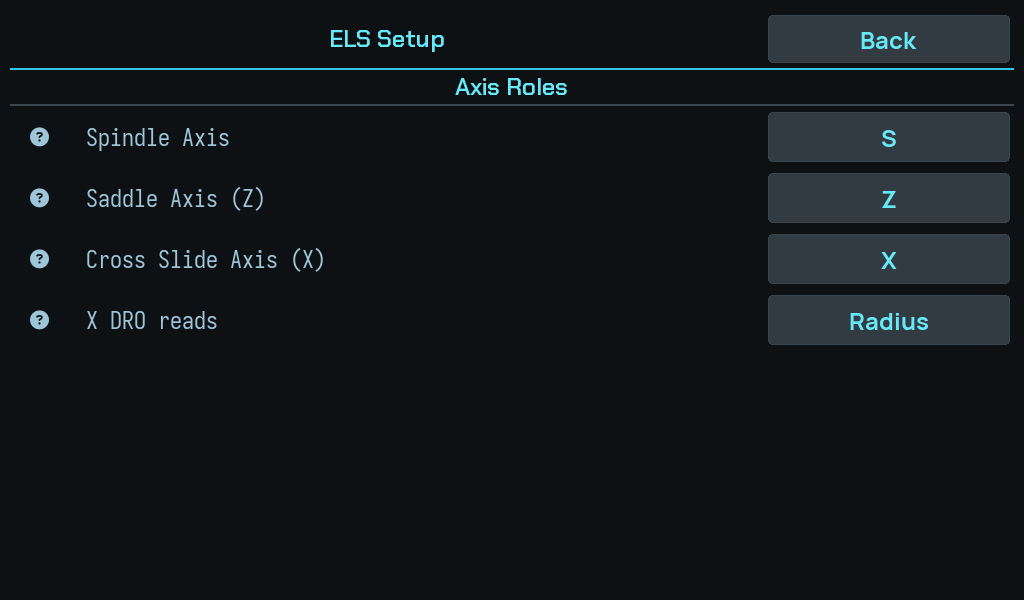
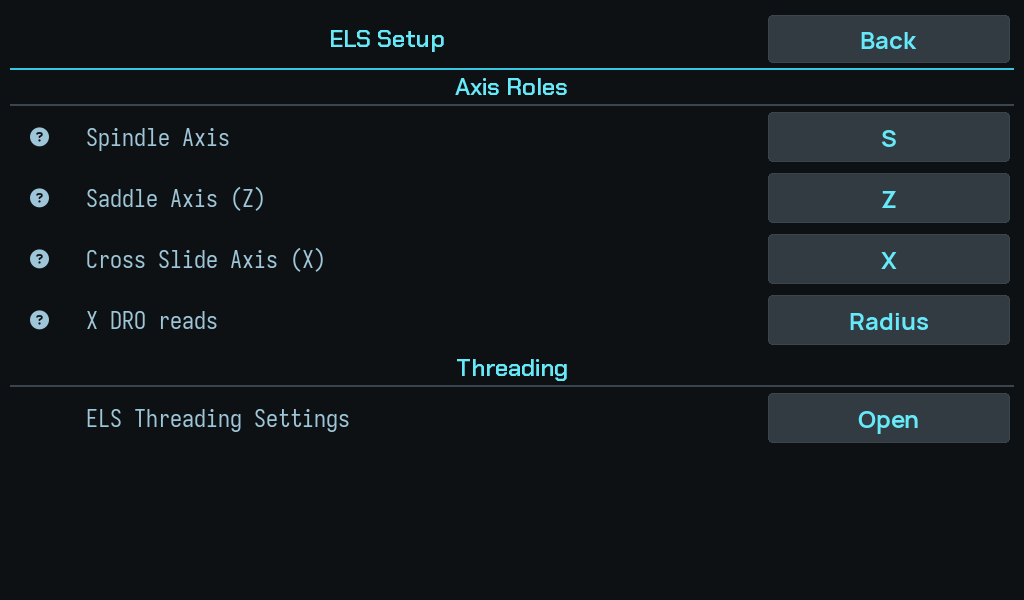
feat(ui): open ELS settings from Setup as well
The ELS Threading Settings popup opened only from the advanced ELS bar's
settings button; every other settings menu is reachable from Setup. The
ELS Setup screen (Setup -> ELS) now has a Threading row, "ELS Threading
Settings", that opens it. The advanced bar's button is unchanged.

There is still one source of truth. The new entry reaches the home
screen's one ElsAdvancedBar through the screen manager
(HomePage.els_advanced_bar, the ELS layout's bar, built whatever mode is
showing) and calls that bar's own open_settings, so the popup is built on
the same bar, app.els and app.servo as from the home screen, and every
control behaves identically. No second bar or copy of its settings is
made; with no home screen to reach, nothing opens. The row is hidden for a
use case without ELS mode, by the same rule as Setup's ELS button.

test_els_settings_entry_points builds the real popup from both entry
points (kv rules patched out, open recorded): both get the home bar, show
the same values, and a change made from either is seen from the other.

The guide pages that say where the popup opens name the second way, and
the ELS setup screenshot is regenerated.

Changed region(s): [[0.0312, 0.6, 1.0, 0.75], [0.0625, 0.69, 0.3438, 0.72]]

diff --git a/ui/tests/components/test_els_settings_entry_points.py b/ui/tests/components/test_els_settings_entry_points.py
@@ -1,0 +1,137 @@
+"""The ELS settings popup opens from two places: the advanced ELS bar's
+settings button and Setup -> ELS -> ELS Setup. Both must open the SAME popup on
+the SAME live state -- the home screen's one advanced bar, the app's one ELS
+dispatcher and servo -- so a value shown or changed from one is the value seen
+from the other. A second ElsAdvancedBar, or a copy of its settings, would be a
+second source of truth.
+
+Built headlessly like test_els_advbar.py: the popup's and the screen's kv rules
+are patched out (the mock GL backend cannot build their graphics), and
+Popup.open is recorded instead of run. Every popup method and property under
+test is the real one.
+"""
+from pathlib import Path
+from types import SimpleNamespace
+from unittest.mock import patch
+
+import pytest
+
+
+@pytest.fixture
+def opened(monkeypatch):
+    """Patch the popup so it can be built headlessly; record each one opened."""
+    from reflex.components.home.els_settings_popup import ElsSettingsPopup
+    seen = []
+    monkeypatch.setattr(ElsSettingsPopup, "apply_class_lang_rules",
+                        lambda self, *a, **kw: None)
+    monkeypatch.setattr(ElsSettingsPopup, "open",
+                        lambda self, *a, **kw: seen.append(self))
+    return seen
+
+
+@pytest.fixture
+def live_app(running_app):
+    """The state both entry points must share: a stateful ELS dispatcher
+    stand-in (the popup writes the take-up and limits back to it)."""
+    running_app.els = SimpleNamespace(
+        els_backlash_steps=403, els_cal_ceiling_steps=1008,
+        els_cal_motion_thresh_counts=2, els_overshoot_margin_counts=1,
+        els_overshoot_correction=False, els_ratio_check=False)
+    return running_app
+
+
+@pytest.fixture
+def home_and_setup(advbar_factory, live_app):
+    """The home screen's advanced bar, and an ELS Setup screen whose app can
+    reach it through the screen manager the way the running app does."""
+    from reflex.components.screens.els_setup_screen import ElsSetupScreen
+    from reflex.components.screens.home_screen import HomePage
+
+    bar = advbar_factory(els_bar=None)
+    home = SimpleNamespace(mode_layouts={2: SimpleNamespace(els_adv_bar=bar)})
+    home.els_advanced_bar = lambda: HomePage.els_advanced_bar(home)
+    live_app.manager = SimpleNamespace(
+        get_screen=lambda name: {"home": home}[name])
+    with patch.object(ElsSetupScreen, "apply_class_lang_rules"):
+        screen = ElsSetupScreen(name="els_setup")
+    return bar, screen
+
+
+def _values(popup):
+    return (popup.backlash_mm, popup.cal_ceiling_mm,
+            popup.cal_motion_thresh_counts, popup.overshoot_margin_counts,
+            popup.get_thread_types(), popup.has_gearbox, popup.gear_names)
+
+
+def test_both_entry_points_open_the_popup_on_the_one_advanced_bar(
+        home_and_setup, opened):
+    bar, screen = home_and_setup
+    bar.open_settings()
+    screen.open_els_settings()
+    assert len(opened) == 2
+    from_bar, from_setup = opened
+    assert from_bar.bar is bar
+    assert from_setup.bar is bar
+    assert _values(from_setup) == _values(from_bar)
+
+
+def test_a_change_from_setup_is_seen_from_the_advanced_bar(home_and_setup, opened):
+    bar, screen = home_and_setup
+    screen.open_els_settings()
+    from_setup = opened[-1]
+    from_setup.backlash_mm = 1.0                    # the NumberItem's on_value
+    from_setup.overshoot_margin_counts = 3
+    from_setup.on_thread_type_selected(from_setup.get_thread_types()[-1])
+    from_setup.bar.inner_thread = not from_setup.bar.inner_thread
+
+    bar.open_settings()
+    from_bar = opened[-1]
+    assert from_bar.backlash_mm == pytest.approx(1.0, abs=127 / 64000)
+    assert from_bar.overshoot_margin_counts == 3
+    assert from_bar.bar.thread_profile_type == from_setup.get_thread_types()[-1]
+    assert from_bar.bar.inner_thread == from_setup.bar.inner_thread
+
+
+def test_a_change_from_the_advanced_bar_is_seen_from_setup(home_and_setup, opened):
+    bar, screen = home_and_setup
+    bar.open_settings()
+    opened[-1].cal_ceiling_mm = 2.0
+    opened[-1].cal_motion_thresh_counts = 5
+
+    screen.open_els_settings()
+    from_setup = opened[-1]
+    assert from_setup.cal_ceiling_mm == pytest.approx(2.0, abs=127 / 64000)
+    assert from_setup.cal_motion_thresh_counts == 5
+
+
+def test_with_no_home_screen_setup_opens_nothing(live_app, opened):
+    """Never a popup on a stand-in bar: without the home screen's bar there is
+    no shared state to edit."""
+    from reflex.components.screens.els_setup_screen import ElsSetupScreen
+    live_app.manager = SimpleNamespace(get_screen=lambda name: None)
+    with patch.object(ElsSetupScreen, "apply_class_lang_rules"):
+        screen = ElsSetupScreen(name="els_setup")
+    screen.open_els_settings()
+    assert opened == []
+
+
+def test_the_setup_entry_is_hidden_without_els_mode():
+    """Same rule as the Setup screen's ELS button. The screen is never built
+    here, so pin the kv: the row opens the popup, reads as the popup's own
+    title, and collapses for a use case without ELS."""
+    import reflex.components.screens.els_setup_screen as mod
+    from reflex.components.home import els_settings_popup as popup_mod
+
+    kv = (Path(mod.__file__).parent / "els_setup_screen.kv").read_text(encoding="utf-8")
+    block = kv[kv.index("on_release: root.open_els_settings()") - 600:]
+    block = block[block.index("ButtonItem:"):]
+    block = block[:block.index("\n\n")] if "\n\n" in block else block
+    gate = "MODE_ELS in USE_CASE_MODES.get(app.use_case, [])"
+    assert f"opacity: 1 if {gate} else 0" in block
+    assert f"height: 60 if {gate} else 0" in block
+    assert "disabled: MODE_ELS not in USE_CASE_MODES.get(app.use_case, [])" in block
+
+    popup_kv = (Path(popup_mod.__file__).parent / "els_settings_popup.kv").read_text(
+        encoding="utf-8")
+    title = popup_kv.split('title: "', 1)[1].split('"', 1)[0]
+    assert f'name: "{title}"' in block

diff --git a/ui/reflex/components/screens/els_setup_screen.py b/ui/reflex/components/screens/els_setup_screen.py
@@ -1,6 +1,6 @@
 from kivy.logger import Logger
 from kivy.properties import BooleanProperty, ObjectProperty, StringProperty
-from kivy.uix.screenmanager import Screen
+from kivy.uix.screenmanager import Screen, ScreenManagerException
 
 from reflex.utils.kv_loader import load_kv
 
@@ -39,6 +39,32 @@ class ElsSetupScreen(Screen):
         from reflex.app import MainApp
         self.app: MainApp = MainApp.get_running_app()
         super().__init__(**kv)
+
+    def open_els_settings(self):
+        """Open the ELS settings popup from Setup: the same popup the advanced
+        ELS bar's settings button opens, on the same bar.
+
+        The popup's bar is the home screen's one ElsAdvancedBar, reached
+        through the screen manager, and the popup is opened by that bar's own
+        open_settings, so every control behaves as it does from the home
+        screen and edits the one live state. Building a bar here instead would
+        be a second copy of its persisted settings. With no home screen to
+        reach (never the case in the running app) nothing opens.
+        """
+        bar = self._els_advanced_bar()
+        if bar is None:
+            log.warning("ELS settings: no home screen advanced bar to open them on")
+            return
+        bar.open_settings()
+
+    def _els_advanced_bar(self):
+        manager = getattr(self.app, "manager", None)
+        try:
+            home = manager.get_screen("home") if manager is not None else None
+        except ScreenManagerException:
+            return None
+        getter = getattr(home, "els_advanced_bar", None)
+        return getter() if callable(getter) else None
 
     def on_pre_enter(self, *args):
         axis_names = [ax.axis_name for ax in self.app.axes]

diff --git a/ui/reflex/components/screens/home_screen.py b/ui/reflex/components/screens/home_screen.py
@@ -57,6 +57,13 @@ class HomePage(Screen):
         self.app.bind(axes=self._on_axes_changed)
         self.change_mode(self, self.next_mode)
 
+    def els_advanced_bar(self):
+        """The one ElsAdvancedBar: the ELS layout's, built with the screen
+        whatever mode is showing. Setup's ELS settings entry opens the popup
+        on it (els_setup_screen.py), so both entry points edit one state."""
+        from reflex.app import MODE_ELS   # deferred: reflex.app imports screens
+        return self.mode_layouts[MODE_ELS].els_adv_bar
+
     def _on_axes_changed(self, instance, value):
         """Rebuild axis bars in all mode layouts when the axes list changes."""
         for layout in self.mode_layouts.values():

diff --git a/docs/guide/widening-a-groove.md b/docs/guide/widening-a-groove.md
@@ -8,8 +8,9 @@ groove a fraction further along and takes the side off it. Repeat until the
 groove is as wide as you want. The workpiece is never re-indexed and the thread
 datum is never re-established.
 
-Open it from the **gear** on the advanced ELS bar — it is the second of the two
-rows at the bottom of the ELS settings, beside
+Open it from the **gear** on the advanced ELS bar, or from **Setup → ELS → ELS
+Threading Settings** — it is the second of the two rows at the bottom of the
+ELS settings, beside
 [Pick up an existing thread](picking-up-a-thread.md#where-to-find-it).
 
 ![The offset modal, nothing entered](../screenshots/flow/wt_offset_entry_zero.png)

diff --git a/docs/guide/stop-overshoot-correction.md b/docs/guide/stop-overshoot-correction.md
@@ -32,8 +32,8 @@ of just past it. Your Stop Z itself never changes.
 ## Where to find it
 
 Tap the **gear** on the advanced ELS bar, under the mode selector, to open
-**ELS Threading Settings**. The two settings are at the bottom, under
-**Advanced**:
+**ELS Threading Settings**, or open it from **Setup → ELS → ELS Threading
+Settings**. The two settings are at the bottom, under **Advanced**:
 
 | Setting | What it does |
 |---|---|

diff --git a/docs/guide/picking-up-a-thread.md b/docs/guide/picking-up-a-thread.md
@@ -17,7 +17,8 @@ at that instant. From then on every pass follows the existing groove.
 ## Where to find it
 
 Both advanced features live behind the **gear** on the advanced ELS bar, at the
-bottom of the ELS settings:
+bottom of the ELS settings. The same settings also open from **Setup → ELS →
+ELS Threading Settings**:
 
 ![The ELS settings popup](../screenshots/flow/wt_settings_popup.png)
 
